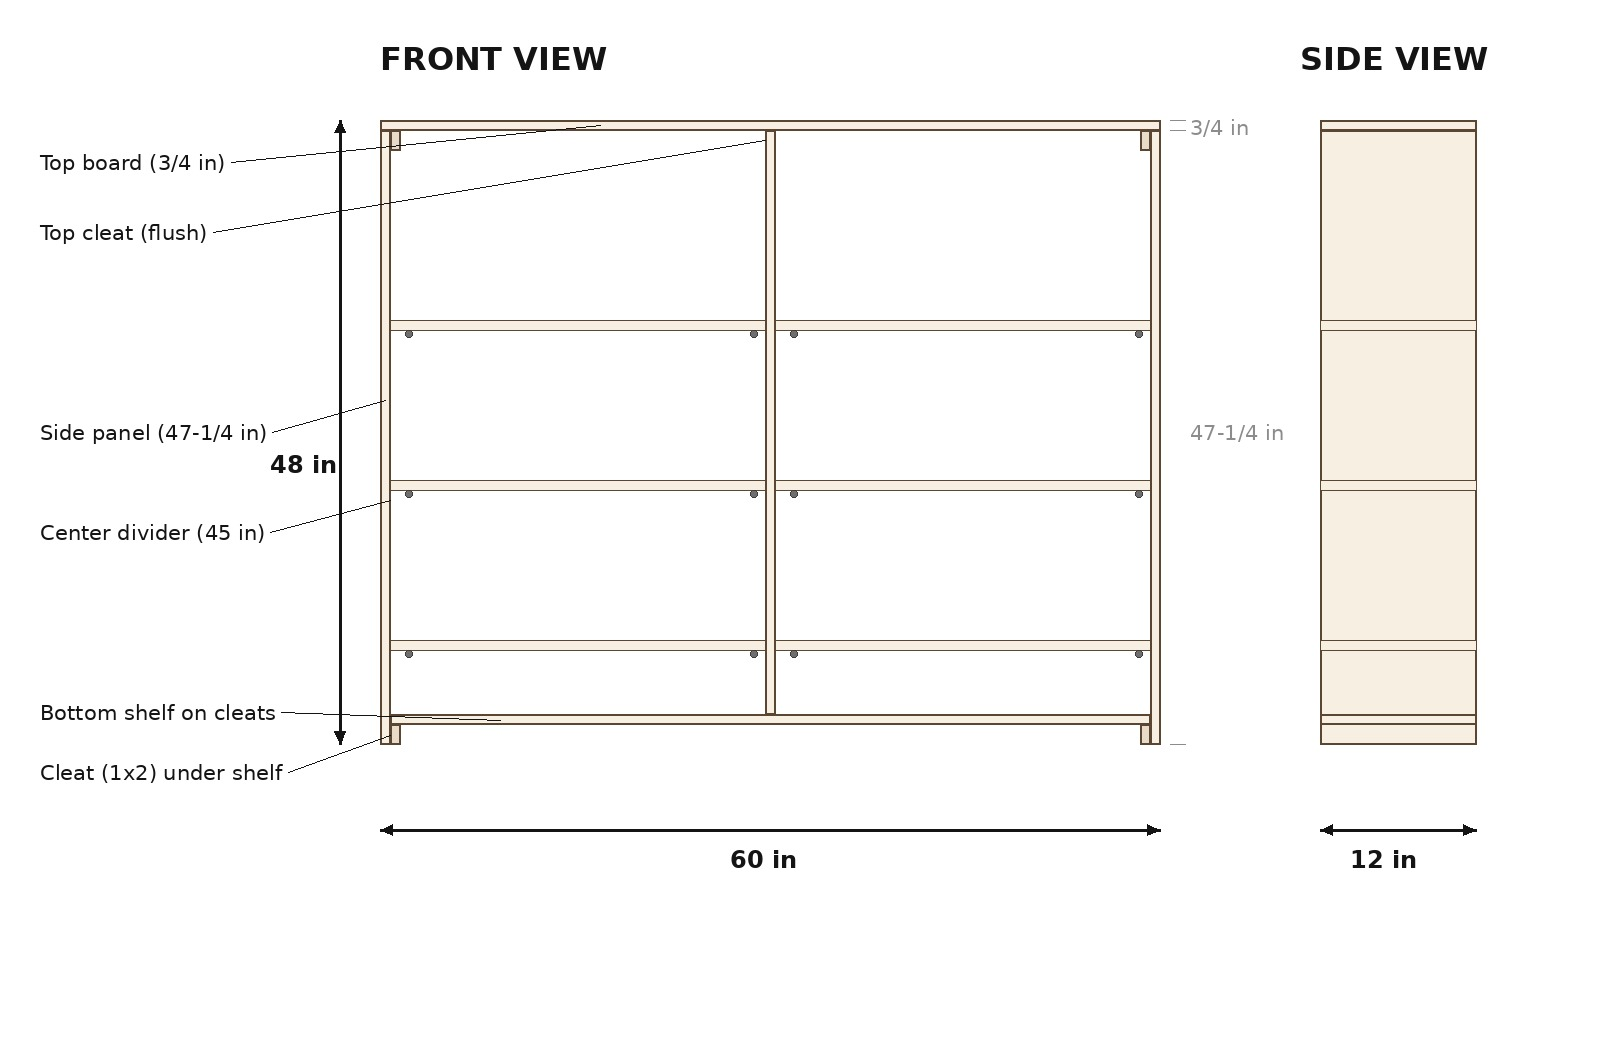
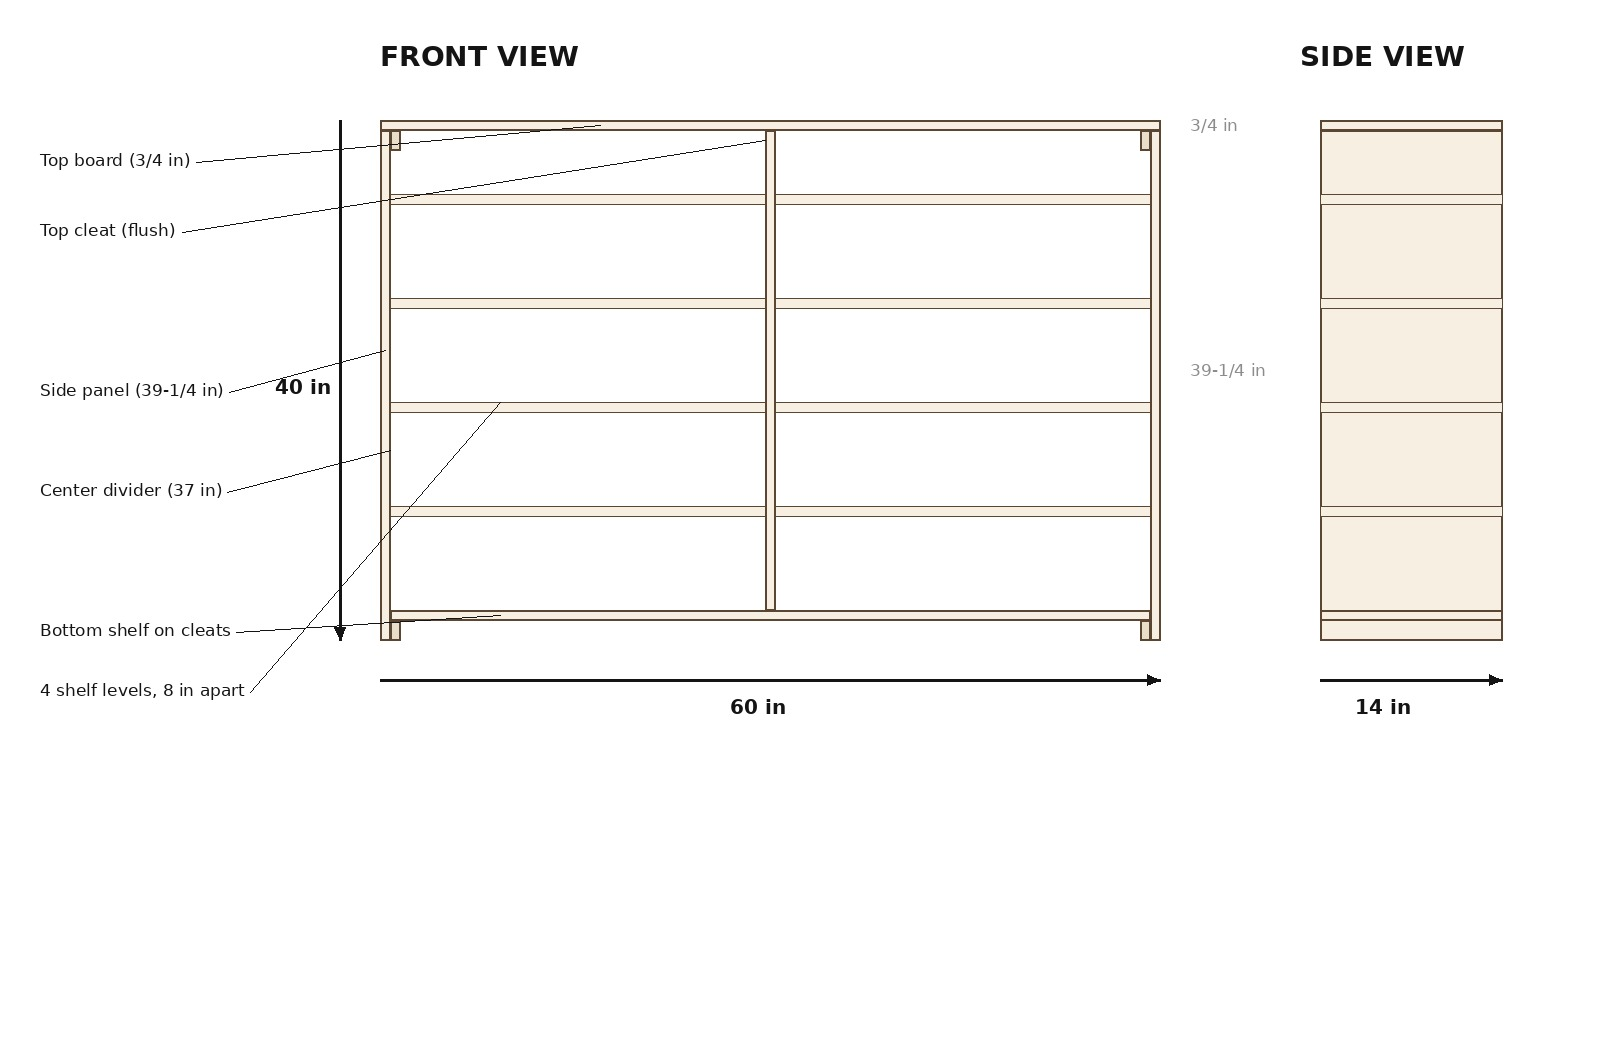
Redesign: 40in tall, 14in deep (#2)
* Redesign: 40in tall, 14in deep, 8in shelf spacing, no backstops, no spares

* Add 14in cutting diagrams, update figure list

* Redraw all dimension-dependent figures for 40x14 design, delete backstop image

* Update figure count to 21

---------

diff --git a/shoe-rack/README.md b/shoe-rack/README.md
@@ -1,10 +1,10 @@
 # DIY Shoe Rack — Complete Build Guide
 
-**60 in wide × 48 in tall × 12 in deep** · ¾ in plywood · Removable middle shelves on shelf pins
+**60 in wide × 40 in tall × 14 in deep** · ¾ in plywood · Removable middle shelves on shelf pins
 
 ## What you are building
 
-A 60 in wide × 48 in tall × 12 in deep open shoe rack. Two side panels, a bottom shelf resting on cleats, top board and center divider form a rigid frame — no screw goes through the side panels, so the outside faces stay clean. Six middle-shelf boards (two per level, one in each bay) rest on metal shelf pins, so you can lift them out or change their height any time. A 2 in backstop strip on each shelf keeps shoes off your wall; a front lip keeps them from sliding off.
+A 60 in wide × 40 in tall × 14 in deep open shoe rack. Two side panels, a bottom shelf resting on cleats, top board and center divider form a rigid frame — no screw goes through the side panels, so the outside faces stay clean. Eight middle-shelf boards (two per level, one in each bay, four levels at 8 in spacing) rest on metal shelf pins, so you can lift them out or change their height any time. A front lip on each shelf keeps shoes from sliding off.
 
 **Design principles:** wooden cleats throughout (no visible metal brackets), no screws through outside faces, no blind screws (every screw goes into a flat face you can see), every joint positively tied so nothing comes off when you lift the rack.
 
@@ -17,9 +17,9 @@ A 60 in wide × 48 in tall × 12 in deep open shoe rack. Two side panels, a bott
 - 4 pieces of 1×2 × 8 ft pine board
 
 ### Hardware
-- #8 × 1-¼ in wood screws — one box of 100 (about 70 needed)
+- #8 × 1-¼ in wood screws — one box of 100 (about 46 needed)
 - #8 × 2 in wood screws — one small box (2 needed: divider cleats to shelf)
-- ¼ in shelf pins — 2 packs (you need 24)
+- ¼ in shelf pins — 2 packs (you need 32)
 - Wood glue — 1 bottle
 - Wood filler (small tub)
 - 120-grit sandpaper (a few sheets)
@@ -33,7 +33,7 @@ A 60 in wide × 48 in tall × 12 in deep open shoe rack. Two side panels, a bott
 - 2 clamps (strongly recommended for assembly)
 - Painter's tape (to mark drill depth)
 - Safety glasses
-- Hand saw (for small cuts at home: 8 in divider cleats, backstop strips)
+- Hand saw (for small cuts at home: 8 in divider cleats)
 
 ---
 
@@ -43,41 +43,41 @@ A 60 in wide × 48 in tall × 12 in deep open shoe rack. Two side panels, a bott
 
 | Qty | Part | Size (in) |
 |-----|------|-----------|
-| 2 | Side panel | 47-¼ × 12 |
-| 1 | Top board | 60 × 12 |
-| 1 | Bottom shelf | 58.5 × 12 |
-| 8 | Middle shelf | 28.75 × 12 (6 in use + 2 spare, no strips on spares) |
-| 1 | Center divider | 45 × 12 |
+| 2 | Side panel | 39-¼ × 14 |
+| 1 | Top board | 60 × 14 |
+| 1 | Bottom shelf | 58.5 × 14 |
+| 8 | Middle shelf | 28.75 × 14 |
+| 1 | Center divider | 37 × 14 |
 
-### 1×2 pine (Home Depot does 28.5 in and 12 in crosscuts; cut the 8 in pieces at home)
+### 1×2 pine (Home Depot does 28.5 in and 14 in crosscuts; cut the 8 in pieces at home)
 
 | Qty | Part | Length (in) | Where to cut |
 |-----|------|-------------|--------------|
 | 8 | Front lip | 28.5 | Home Depot |
-| 4 | Side cleat | 12 | Home Depot |
+| 4 | Side cleat | 14 | Home Depot |
 | 2 | Divider cleat | 8 | Home (hand saw — under HD's 12 in minimum) |
 
 **1×2 cutting plan (4 boards):**
 - Board 1: 3 × 28.5 in lips
 - Board 2: 3 × 28.5 in lips
-- Board 3: 2 × 28.5 in lips + 2 × 12 in cleats
-- Board 4: 2 × 12 in cleats + 2 × 8 in divider cleats (hand saw)
-
-### Backstop strips (cut at home with hand saw)
-
-- 8 pieces, 28.5 × 2 in — rip from plywood offcuts
-- Rip the 36 in offcut (Sheet 1) into 2 in strips → 5 backstops
-- Rip 3 more from the 37.5 in offcut (Sheet 2) → 8 total
+- Board 3: 2 × 28.5 in lips + 2 × 14 in cleats
+- Board 4: 2 × 14 in cleats + 2 × 8 in divider cleats (hand saw)
 
 ---
 
 ## Cutting Diagrams
 
-Each 4×8 sheet is first ripped into four 12 in wide strips (96 in long). Gray areas are offcuts — keep them for the backstop strips.
+Each 4×8 sheet is first ripped into three 14 in wide strips (96 in long). There will be a 6 in offcut strip per sheet.
 
-**Sheet 1:** Top board 60 in + offcut 36 in · 3× Shelf 28.75 in + offcut (×2 rows) · 2× Extra shelf 28.75 in + spare
+**Sheet 1:**
+- Strip 1: Top board 60 in + 1 shelf 28.75 in
+- Strip 2: 3 shelves 28.75 in
+- Strip 3: 3 shelves 28.75 in
 
-**Sheet 2:** 2× Side 47-¼ in · Bottom shelf 58.5 in + offcut 37.5 in · Divider 45 in + offcut 51 in · SPARE strip (safety net)
+**Sheet 2:**
+- Strip 1: Bottom shelf 58.5 in + 1 shelf 28.75 in
+- Strip 2: 2 side panels 39.25 in
+- Strip 3: Divider 37 in + 2 shelves 28.75 in
 
 ---
 
@@ -88,7 +88,7 @@ Drill ALL holes before assembling. Two kinds of holes:
 ### Shelf-pin holes (¼ in diameter)
 - **Side panels:** ⅜ in deep, drilled on the INSIDE face only (never through)
 - **Divider:** 5/16 in deep per side, drilled on BOTH faces (leaves a ⅛ in web in the middle)
-- **Pattern:** columns at 2 in and 10 in from the front edge; rows every 2 in from 6 in to 42 in above the floor
+- **Pattern:** columns at 2 in and 12 in from the front edge; rows every 2 in from 6 in to 34 in above the floor
 - **Critical:** pin holes must be at the exact same height on every panel or shelves will wobble
 
 ### Screw pilot holes
@@ -106,7 +106,7 @@ Drill ALL holes before assembling. Two kinds of holes:
 
 ### Step 2 — Assemble the rigid frame
 1. Lay one side panel flat, inside face up. Run wood glue on the inside face along the bottom 1.5 in.
-2. Press a cleat (1×2 × 12 in, on edge) against the glue with its bottom flush with the panel's bottom edge. Drive 3 screws through the cleat into the panel face.
+2. Press a cleat (1×2 × 14 in, on edge) against the glue with its bottom flush with the panel's bottom edge. Drive 3 screws through the cleat into the panel face.
 3. Glue and screw a second cleat near the top with its top **flush** with the panel's top edge. Repeat both cleats on the second panel.
 4. Stand both panels upright, inside faces toward each other.
 5. Lower the bottom shelf onto the two bottom cleats. It should sit flat and level.
@@ -116,15 +116,14 @@ Drill ALL holes before assembling. Two kinds of holes:
 9. Check square: measure both diagonals corner-to-corner. They must match — tap the frame until they do (before glue dries).
 
 ### Step 3 — Drop in the middle shelves
-1. Push 4 shelf pins into the holes at your chosen height for each board (2 on the side panel, 2 on the divider — same height both sides).
-2. Lower each of the 6 boards onto its 4 pins — two boards per level, one in each bay. No screws.
+1. Push 4 shelf pins into the holes at your chosen height for each board (2 on the side panel, 2 on the divider — same height both sides). Default spacing is 8 in: 10.25, 18.25, 26.25, 34.25 in above the floor.
+2. Lower each of the 8 boards onto its 4 pins — two boards per level, one in each bay. No screws.
 3. To remove: lift off. To change heights: move pins to a different row.
 
-### Step 4 — Backstop strips and front lips
-1. **Backstops:** stand a 28.5 × 2 in strip upright (2 in tall) at the BACK edge of each shelf. Middle boards: flip over, drive 3 screws UP from underneath. Bottom shelf: drive 3 screws DOWN through the strip (can't reach underneath).
-2. **Front lips:** glue along the front edge, press the 1×2 on, drive 3 screws horizontally through the lip into the shelf edge.
-3. Screw positions: ¼, ½, ¾ along the 28.5 in strip length.
-4. The strips also stiffen the rack against side-to-side wobble.
+### Step 4 — Front lips
+1. Run glue along the front edge of each shelf, press a 1×2 lip (28.5 in) on, and drive 3 screws horizontally through the lip into the shelf edge.
+2. Screw positions: ¼, ½, ¾ along the 28.5 in strip length.
+3. Do this for all 8 shelf positions (4 levels × 2 bays).
 
 ### Step 5 — Finish and place
 - Fill all screw holes with wood filler. Let dry, sand smooth.
@@ -137,46 +136,25 @@ Drill ALL holes before assembling. Two kinds of holes:
 
 | Part | Dimensions (in) |
 |------|-----------------|
-| Overall | 60 W × 48 H × 12 D |
-| Side panel | 47-¼ × 12 (top board on top = 48 total) |
-| Top board | 60 × 12 × ¾ |
-| Bottom shelf | 58.5 × 12 (top at 2.25 in above floor) |
-| Divider | 45 × 12 (2.25 in to 47.25 in) |
-| Middle shelf | 28.75 × 12 (bay is 28.875 — ⅛ in clearance) |
-| Backstop / lip | 28.5 long (¼ in shorter than shelf, centered) |
+| Overall | 60 W × 40 H × 14 D |
+| Side panel | 39-¼ × 14 (top board on top = 40 total) |
+| Top board | 60 × 14 × ¾ |
+| Bottom shelf | 58.5 × 14 (top at 2.25 in above floor) |
+| Divider | 37 × 14 (2.25 in to 39.25 in) |
+| Middle shelf | 28.75 × 14 (bay is 28.875 — ⅛ in clearance) |
+| Front lip | 28.5 long (¼ in shorter than shelf, centered) |
 | Bay width | 28.875 in |
+| Shelf levels | 10.25, 18.25, 26.25, 34.25 in (8 in spacing) |
 
 ## Figures
 
-All figures are in `pdf_img/` (20 images). Figure numbers run sequentially in reading order:
+All figures are in `pdf_img/` (21 images). Figure numbers run sequentially in reading order.
 
-1. `fig1-overview.jpg` — Front and side views, overall dimensions
-2. Parts inventory diagram (generated in code)
-3. Sheet 1 cutting diagram (generated in code)
-4. Sheet 2 cutting diagram (generated in code)
-5. `backstop-strips.jpg` — Backstop cutting detail (hand saw)
-6. `pine12-cutting.jpg` — 1×2 where-to-cut guide
-7. Side panel drilling map (generated in code)
-8. Divider drilling map (generated in code)
-9. `fig7-bottom.jpg` — Bottom shelf top view
-10. Top board top view (generated in code)
-11. Middle shelf top view (generated in code)
-12. `fig11-screw.jpg` — Screw joint cross-section
-13. `media-generation-drill-spots-0-e9d673c9-da65-43de-bd61-7591c41c52b0.jpg` — Side panel drilling drawing
-14. Size comparison: panel vs divider (generated in code)
-15. `fig13-marking.jpg` — Marking shelf heights
-16. `fig14-frame.jpg` — Assembled frame
-17. `cleat-joint.jpg` — Cleat joint detail
-18. `cleat-bottom-shelf.jpg` — Bottom shelf on cleats
-19. `divider-cleats.jpg` — Divider bottom joint
-20. `divider-top.jpg` — Divider top joint
-21. `fig15-shelves.jpg` — Frame with shelves installed
-22. `fig16-pin.jpg` — Shelf pin cross-section
-23. `divider-middle-shelf.jpg` — Shelf on divider pins
-24. `fig17-strips.jpg` — Backstop + lip overview
-25. `shelf-iso-top.jpg` — Screw positions & directions (top/isometric/side)
-26. `strips-front.jpg` — Shelf front view with dimensions
-27. `strips-side.jpg` — Shelf side cross-section
+**Updated for the 40×14 redesign:**
+- `sheet1-cutting-14in.jpg` — Sheet 1 cutting diagram (top + 7 shelves)
+- `sheet2-cutting-14in.jpg` — Sheet 2 cutting diagram (bottom + sides + divider + shelf)
+
+*(Remaining assembly figures to be redrawn for the new dimensions when the PDF is regenerated.)*
 
 ---
 
@@ -185,3 +163,10 @@ All figures are in `pdf_img/` (20 images). Figure numbers run sequentially in re
 This README is the source of truth. The PDF is **not** stored in the repo — ask Muse: "regenerate the PDF from the README" and it will rebuild it from this file + `pdf_img/`.
 
 **To see what changed between versions:** open a PR — GitHub shows line-by-line diffs for the README and before/after for images.
+
+---
+
+## Changelog
+
+- **Oct 17, 2026:** Height reduced 48→40 in, depth increased 12→14 in, shelf spacing set to 8 in (4 levels), backstops removed, spare shelves removed. Side panels 39-¼ in, divider 37 in, cleats 14 in, 8 shelves total.
+- **Oct 14, 2026:** Initial guide (60×48×12).
